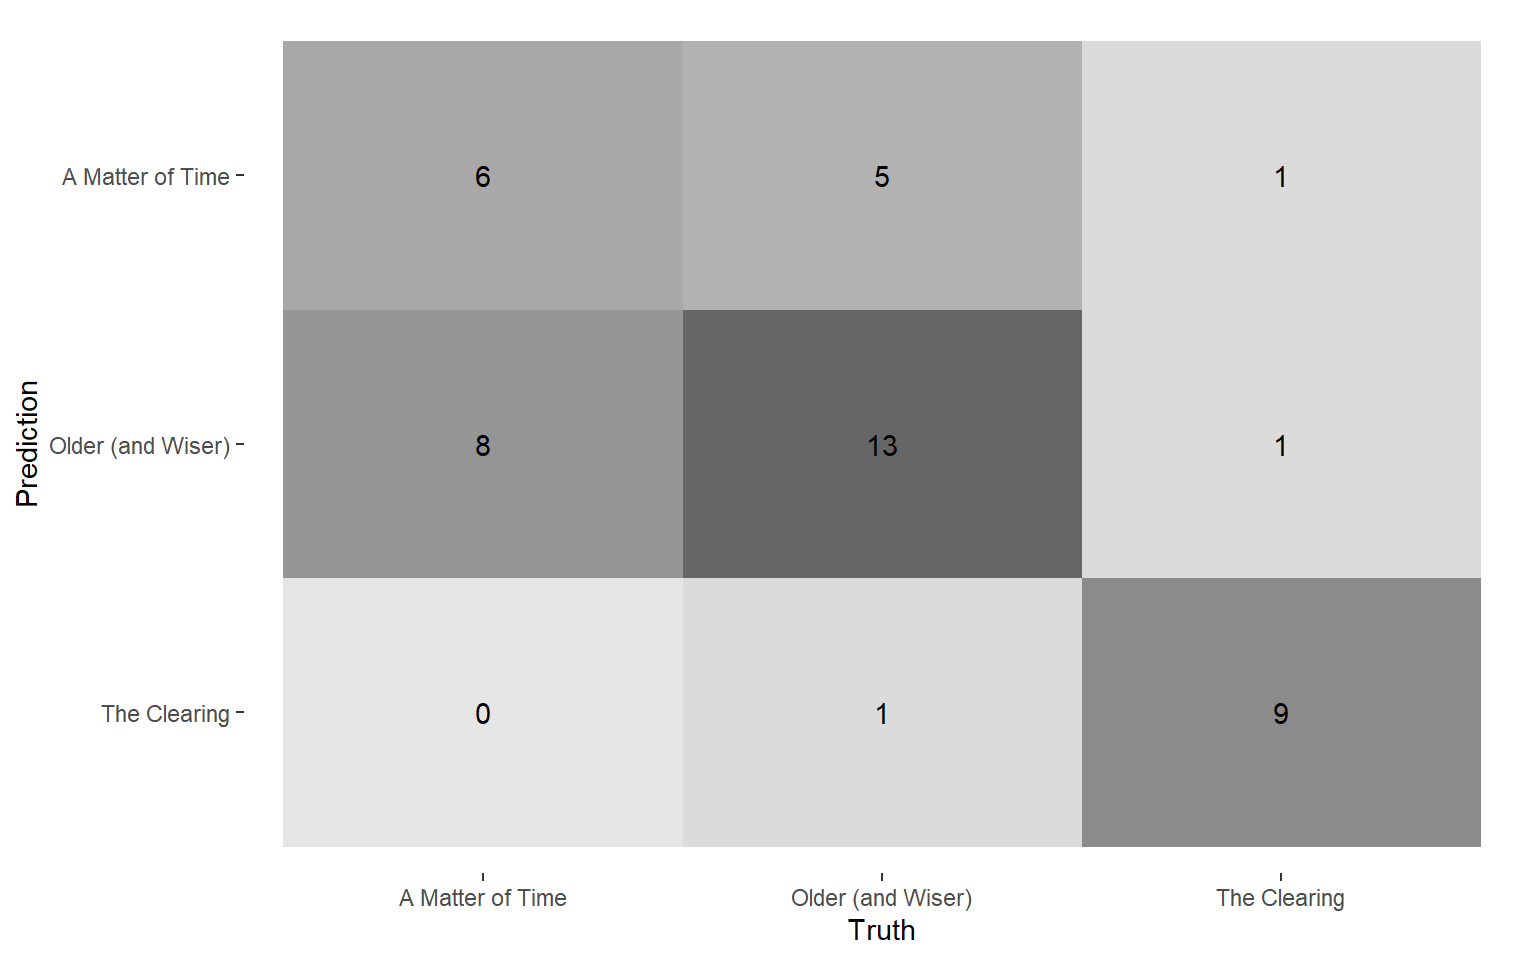
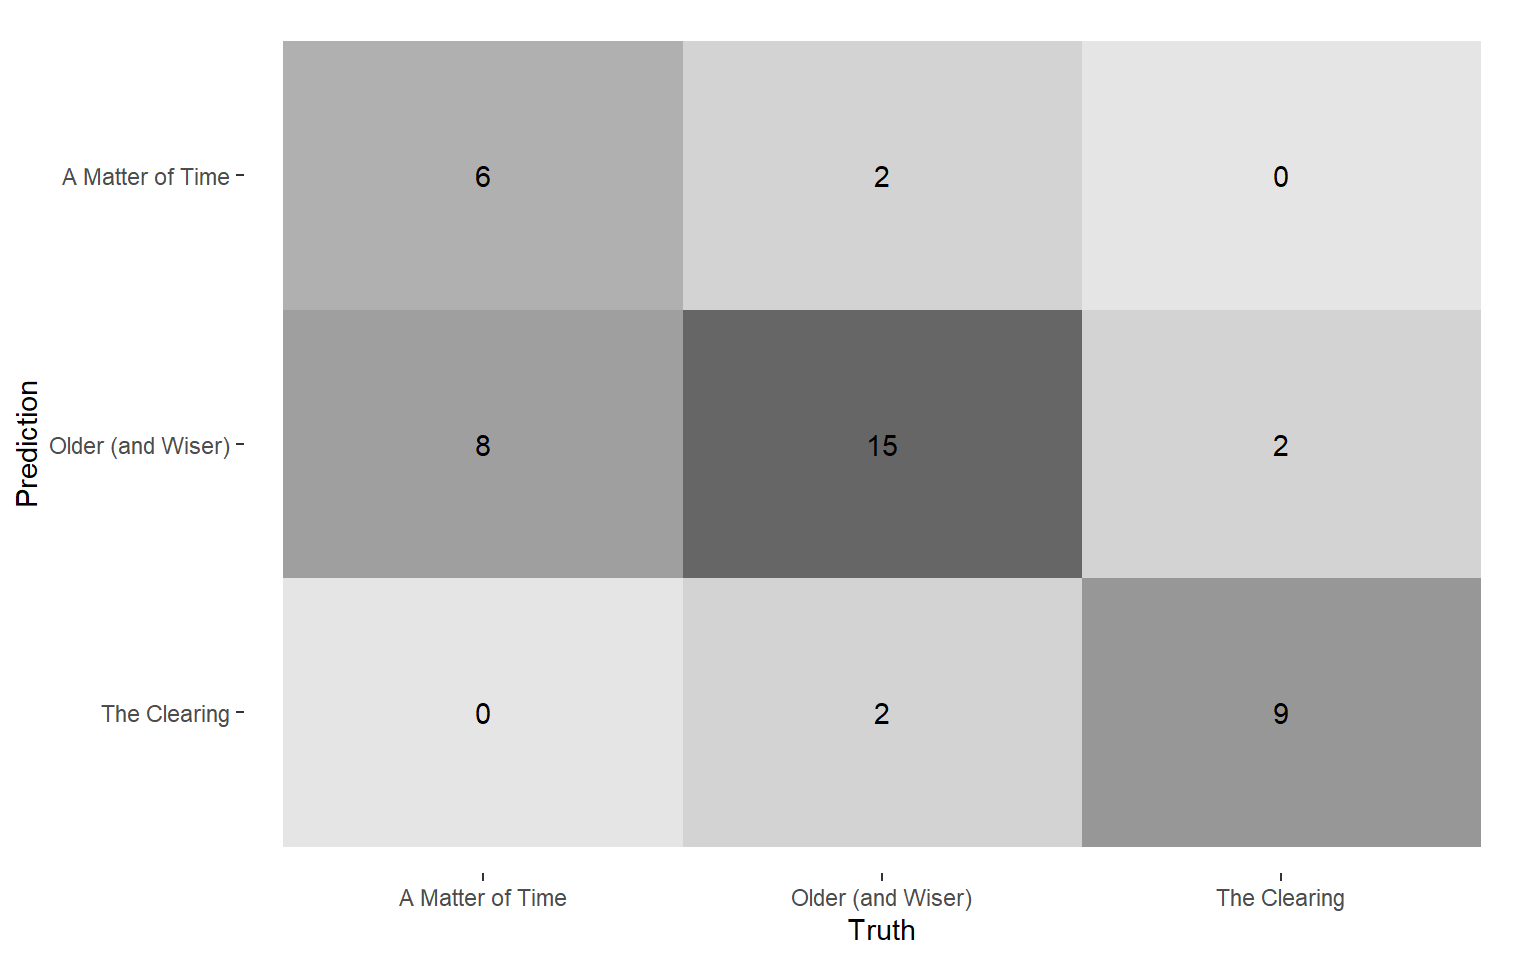
commit to R

Changed region(s): [[0.4375, 0.0312, 0.7188, 0.3438], [0.8125, 0.1562, 0.8438, 0.1875]]

diff --git a/index.html b/index.html
@@ -118,8 +118,14 @@ grid-auto-rows: minmax(0, 1fr);">
 grid-auto-rows: minmax(0, 1fr);">
 <div class="html-fill-item html-fill-container bslib-grid" style="display: grid; grid-template-rows: minmax(3em, max-content); grid-auto-columns: minmax(0, 1fr);">
 <div class="card html-fill-item html-fill-container bslib-card" data-fill="false" data-bslib-card-init="" data-require-bs-caller="card()" data-full-screen="false">
-<div class="card-body html-fill-item html-fill-container flow">
-WIP
+<div class="card-body html-fill-item html-fill-container">
+<div class="quarto-figure quarto-figure-center html-fill-item html-fill-container">
+<figure class="figure">
+<p><img src="Jealous_Chromagram.png" class="img-fluid figure-img"></p>
+<figcaption>Jealous-Labrynth</figcaption>
+</figure>
+</div>
+<p>Jealous is a stripped down simple song with only one voice and a piano. The major piano chords in jealous are Db (C#), Gb (F#), Ab and Bb. All these can be easily seen in the chromagram.</p>
 </div>
 <bslib-tooltip placement="auto" bsoptions="[]" data-require-bs-version="5" data-require-bs-caller="tooltip()">
     <template>Expand</template>
@@ -129,8 +135,14 @@ WIP
 </bslib-tooltip><script data-bslib-card-init="">bslib.Card.initializeAllCards();</script></div>
 </div><div class="html-fill-item html-fill-container bslib-grid" style="display: grid; grid-template-rows: minmax(3em, max-content); grid-auto-columns: minmax(0, 1fr);">
 <div class="card html-fill-item html-fill-container bslib-card" data-fill="false" data-bslib-card-init="" data-require-bs-caller="card()" data-full-screen="false">
-<div class="card-body html-fill-item html-fill-container flow">
-WIP
+<div class="card-body html-fill-item html-fill-container">
+<div class="quarto-figure quarto-figure-center html-fill-item html-fill-container">
+<figure class="figure">
+<p><img src="Mots_Chromagram.png" class="img-fluid figure-img"></p>
+<figcaption>Moral of the Story-Ashe</figcaption>
+</figure>
+</div>
+<p>Moral of the story is full with many harmonies and multiple instruments, and seemingly heavy production. As is to be expected, we can see more notes highlighted as was expected due to there being many harmonies and instruments.</p>
 </div>
 <bslib-tooltip placement="auto" bsoptions="[]" data-require-bs-version="5" data-require-bs-caller="tooltip()">
     <template>Expand</template>
@@ -140,8 +152,14 @@ WIP
 </bslib-tooltip><script data-bslib-card-init="">bslib.Card.initializeAllCards();</script></div>
 </div><div class="html-fill-item html-fill-container bslib-grid" style="display: grid; grid-template-rows: minmax(3em, max-content); grid-auto-columns: minmax(0, 1fr);">
 <div class="card html-fill-item html-fill-container bslib-card" data-fill="false" data-bslib-card-init="" data-require-bs-caller="card()" data-full-screen="false">
-<div class="card-body html-fill-item html-fill-container flow">
-WIP
+<div class="card-body html-fill-item html-fill-container">
+<div class="quarto-figure quarto-figure-center html-fill-item html-fill-container">
+<figure class="figure">
+<p><img src="je_te_chromagram.png" class="img-fluid figure-img"></p>
+<figcaption>Je te laisserai des mots-Patrick Watson</figcaption>
+</figure>
+</div>
+<p>Similar to Jealous, this song is more simple, it has piano, one voice and a string section which occasionally is played. We can see the key chords throught the entire song very clearly.</p>
 </div>
 <bslib-tooltip placement="auto" bsoptions="[]" data-require-bs-version="5" data-require-bs-caller="tooltip()">
     <template>Expand</template>
@@ -154,19 +172,23 @@ WIP
 </div><div id="keygram" class="dashboard-page tab-pane grid-skip html-fill-item html-fill-container" data-orientation="columns" aria-labelledby="tab-keygram">
 <div class="html-fill-item html-fill-container bslib-grid" style="display: grid; grid-template-columns: minmax(3em, 1fr) minmax(3em, 1fr);
 grid-auto-rows: minmax(0, 1fr);">
+<div class="html-fill-item html-fill-container bslib-grid" style="display: grid; grid-template-rows: minmax(3em, max-content); grid-auto-columns: minmax(0, 1fr);">
 <div class="card html-fill-item html-fill-container bslib-card" data-fill="false" data-bslib-card-init="" data-require-bs-caller="card()" data-full-screen="false">
-<div class="card-body html-fill-item html-fill-container flow">
-WIP
+<div class="card-body html-fill-item html-fill-container">
+<img src="Keygram_jete.png" class="img-fluid">
 </div>
 <bslib-tooltip placement="auto" bsoptions="[]" data-require-bs-version="5" data-require-bs-caller="tooltip()">
     <template>Expand</template>
     <span class="bslib-full-screen-enter badge rounded-pill">
         <svg xmlns="http://www.w3.org/2000/svg" viewbox="0 0 24 24" style="height:1em;width:1em;" aria-hidden="true" role="img"><path d="M20 5C20 4.4 19.6 4 19 4H13C12.4 4 12 3.6 12 3C12 2.4 12.4 2 13 2H21C21.6 2 22 2.4 22 3V11C22 11.6 21.6 12 21 12C20.4 12 20 11.6 20 11V5ZM4 19C4 19.6 4.4 20 5 20H11C11.6 20 12 20.4 12 21C12 21.6 11.6 22 11 22H3C2.4 22 2 21.6 2 21V13C2 12.4 2.4 12 3 12C3.6 12 4 12.4 4 13V19Z"></path></svg>
     </span>
-</bslib-tooltip><script data-bslib-card-init="">bslib.Card.initializeAllCards();</script></div><div class="html-fill-item html-fill-container bslib-grid" style="display: grid; grid-template-rows: minmax(3em, max-content); grid-auto-columns: minmax(0, 1fr);">
+</bslib-tooltip><script data-bslib-card-init="">bslib.Card.initializeAllCards();</script></div>
+</div><div class="html-fill-item html-fill-container bslib-grid" style="display: grid; grid-template-rows: minmax(3em, max-content); grid-auto-columns: minmax(0, 1fr);">
 <div class="card html-fill-item html-fill-container bslib-card" data-fill="false" data-bslib-card-init="" data-require-bs-caller="card()" data-full-screen="false">
-<div class="card-body html-fill-item html-fill-container flow">
-WIP
+<div class="card-body html-fill-item html-fill-container">
+<p>As can be seen in the keygram, the tonal centre is G major which can be seen as the most dark blue part in the image. Other keys such as D major and Bm are also quite dark in colour as they are close to G major in the circle of fifths.</p>
+<p>Since this song is a relatively simple song, it makes sense that the tonal centre seems to stay around the same keys and no key change can be seen.</p>
+<p>Except for one area around 100 seconds where there is a slight gap in the dark blue, which is also around the time the string section is introduced into the song, so that could explain a slight break in the keygram.</p>
 </div>
 <bslib-tooltip placement="auto" bsoptions="[]" data-require-bs-version="5" data-require-bs-caller="tooltip()">
     <template>Expand</template>
@@ -181,8 +203,14 @@ WIP
 grid-auto-rows: minmax(0, 1fr);">
 <div class="html-fill-item html-fill-container bslib-grid" style="display: grid; grid-template-rows: minmax(3em, max-content); grid-auto-columns: minmax(0, 1fr);">
 <div class="card html-fill-item html-fill-container bslib-card" data-fill="false" data-bslib-card-init="" data-require-bs-caller="card()" data-full-screen="false">
-<div class="card-body html-fill-item html-fill-container flow">
-WIP
+<div class="card-body html-fill-item html-fill-container">
+<div class="quarto-figure quarto-figure-center html-fill-item html-fill-container">
+<figure class="figure">
+<p><img src="mots_dft.png" class="img-fluid figure-img"></p>
+<figcaption>Fourier Tempogram</figcaption>
+</figure>
+</div>
+<p>This is the fourier tempogram for ‘Moral of the Story’ by Ashe. It is not a very clear picture. In the areas where this is almost a criss-cross pattern, in those parts of the song, she is almost speaking-singing. I believe the software is unable to pick up the tempo due to that reason. However, in the more instrumental and actual singing parts, we can see clear lines of the tempo (and even the different tempo harmonics).</p>
 </div>
 <bslib-tooltip placement="auto" bsoptions="[]" data-require-bs-version="5" data-require-bs-caller="tooltip()">
     <template>Expand</template>
@@ -192,8 +220,14 @@ WIP
 </bslib-tooltip><script data-bslib-card-init="">bslib.Card.initializeAllCards();</script></div>
 </div><div class="html-fill-item html-fill-container bslib-grid" style="display: grid; grid-template-rows: minmax(3em, max-content); grid-auto-columns: minmax(0, 1fr);">
 <div class="card html-fill-item html-fill-container bslib-card" data-fill="false" data-bslib-card-init="" data-require-bs-caller="card()" data-full-screen="false">
-<div class="card-body html-fill-item html-fill-container flow">
-WIP
+<div class="card-body html-fill-item html-fill-container">
+<div class="quarto-figure quarto-figure-center html-fill-item html-fill-container">
+<figure class="figure">
+<p><img src="mots_novely.png" class="img-fluid figure-img"></p>
+<figcaption>Novelty function</figcaption>
+</figure>
+</div>
+<p>This is the novelty function of ‘Moral of the Story’ by Ashe. In between seconds 65 and 90, there was a lot of activity in the novelty function. If you see the fourier tempogram, this is around the second block of the criss-cross pattern. This is when she is almost speaking, which is why the software isn’t able to pick up the tempo.</p>
 </div>
 <bslib-tooltip placement="auto" bsoptions="[]" data-require-bs-version="5" data-require-bs-caller="tooltip()">
     <template>Expand</template>
@@ -203,8 +237,14 @@ WIP
 </bslib-tooltip><script data-bslib-card-init="">bslib.Card.initializeAllCards();</script></div>
 </div><div class="html-fill-item html-fill-container bslib-grid" style="display: grid; grid-template-rows: minmax(3em, max-content); grid-auto-columns: minmax(0, 1fr);">
 <div class="card html-fill-item html-fill-container bslib-card" data-fill="false" data-bslib-card-init="" data-require-bs-caller="card()" data-full-screen="false">
-<div class="card-body html-fill-item html-fill-container flow">
-WIP
+<div class="card-body html-fill-item html-fill-container">
+<div class="quarto-figure quarto-figure-center html-fill-item html-fill-container">
+<figure class="figure">
+<p><img src="mots_fourier.png" class="img-fluid figure-img"></p>
+<figcaption>Autocorrelation tempogram</figcaption>
+</figure>
+</div>
+<p>The autocorrelation tempogram is not very clear. This is because the autocorrelation tempogram reads the rhythmic self-similarity. Throughout the song there is a lot of different instruments, harmonies and different styles of singing as well. I believe due to this diversity, this tempgram is unclear.</p>
 </div>
 <bslib-tooltip placement="auto" bsoptions="[]" data-require-bs-version="5" data-require-bs-caller="tooltip()">
     <template>Expand</template>
@@ -234,9 +274,9 @@ grid-auto-rows: minmax(0, 1fr);">
 <pre><code># A tibble: 3 × 3
   class             precision recall
   &lt;fct&gt;                 &lt;dbl&gt;  &lt;dbl&gt;
-1 A Matter of Time      0.5    0.429
-2 Older (and Wiser)     0.591  0.684
-3 The Clearing          0.9    0.818</code></pre>
+1 A Matter of Time      0.75   0.429
+2 Older (and Wiser)     0.6    0.789
+3 The Clearing          0.818  0.818</code></pre>
 </div>
 </div>
 <bslib-tooltip placement="auto" bsoptions="[]" data-require-bs-version="5" data-require-bs-caller="tooltip()">
